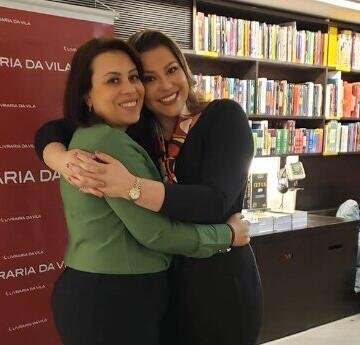
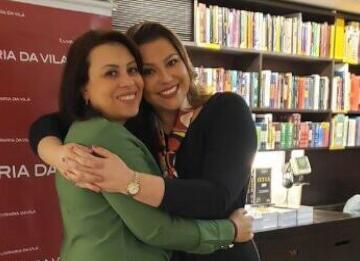
eventos

diff --git a/eventos.html b/eventos.html
@@ -285,7 +285,7 @@
             <div class="grid-item">
               <div class="single_blog">
                 <figure class="blog_item">
-                  <img src="assets/img/masonary_4.jpg" alt="" width="360" height="345"/>
+                  <img src="assets/img/masonary_4.jpg" alt="Responsabilidade Social" width="360" height="345"/>
                   <div class="blog_text">
                     <h6>Março 16, 2020</h6>
                     <h4> <a href="#"> Responsabilidade Social</a> </h4>
@@ -299,7 +299,7 @@
             <div class="grid-item">
               <div class="single_blog">
                 <figure class="blog_item">
-                  <img src="assets/img/masonary_1.jpg" alt="" width="360" height="345"/>
+                  <img src="assets/img/masonary_1.jpg" alt="Lançamento do livro" width="360" height="261"/>
                   <div class="blog_text">
                     <h6>Agosto 14, 2019</h6>
                     <h4> <a href="#!">Lançamento livro</a> </h4>
@@ -324,25 +324,67 @@
                 </figure>
               </div>
             </div>
-            <div class="grid-item grid-item--width2" style="display: none;">
+            <div class="grid-item grid-item--width2">
+              <div class="single_blog">
+                <figure class="blog_item">
+                  <img src="assets/img/palestra-media%C3%A7%C3%A3o.jpg" alt="Palestra Mediação e Arbitragem" width="360" height="345"/>
+                  <div class="blog_text">
+                    <h6>Março 30, 2010</h6>
+                    <h4> <a href="#!">Mediação e Arbitragem</a></h4>
+                    <h5> <i class="icofont icofont-ui-user"></i>Dra. Patrícia Batata</h5>
+                    <p>O caminho mais rápido, pacífico e sigiloso na solução de conflitos</p>
+                    <a href="#">Leia Mais</a>
+                  </div>
+                </figure>
+              </div>
+            </div>
+            <div class="grid-item grid-item--width2">
+              <div class="single_blog">
+                <figure class="blog_item">
+                  <img src="assets/img/masonary_5.jpg" alt=""/>
+                  <div class="blog_text">
+                    <h6>Aug 14, 2016</h6>
+                    <h4> <a href="single_blog.html">Duis autem vel eum iriure</a> </h4>
+                    <h5> <i class="icofont icofont-ui-user"></i>by Nawshin</h5>
+                    <p>Lorem ipsum dolor sit amet, consectetuer adipi scing elit, sed diam nonummy nibh euismod tincidunt ut laoreet dolore magna...</p>
+                    <a href="#">Read More</a>
+                  </div>
+                </figure>
+              </div>
+            </div>
+            <div class="grid-item">
+              <div class="single_blog">
+                <figure class="blog_item">
+                  <img src="assets/img/masonary_5.jpg" alt=""/>
+                  <div class="blog_text">
+                    <h6>Aug 14, 2016</h6>
+                    <h4> <a href="single_blog.html">Duis autem vel eum iriure</a> </h4>
+                    <h5> <i class="icofont icofont-ui-user"></i>by Nawshin</h5>
+                    <p>Lorem ipsum dolor sit amet, consectetuer adipi scing elit, sed diam nonummy nibh euismod tincidunt ut laoreet dolore magna...</p>
+                    <a href="#">Read More</a>
+                  </div>
+                </figure>
+              </div>
+            </div>
+            <div class="grid-item">
+              <div class="single_blog">
+                <figure class="blog_item">
+                  <img src="assets/img/masonary_5.jpg" alt=""/>
+                  <div class="blog_text">
+                    <h6>Aug 14, 2016</h6>
+                    <h4> <a href="single_blog.html">Duis autem vel eum iriure</a> </h4>
+                    <h5> <i class="icofont icofont-ui-user"></i>by Nawshin</h5>
+                    <p>Lorem ipsum dolor sit amet, consectetuer adipi scing elit, sed diam nonummy nibh euismod tincidunt ut laoreet dolore magna...</p>
+                    <a href="#">Read More</a>
+                  </div>
+                </figure>
+              </div>
+            </div>
+            <div class="grid-item">
               <div class="single_blog">
                 <figure class="blog_item">
                   <img src="assets/img/masonary_3.jpg" alt=""/>
                   <div class="blog_text">
-                    <h6>Ago 14, 2019</h6>
-                    <h4> <a href="#!">Palestra sobre Direito Médico</a></h4>
-                    <h5> <i class="icofont icofont-ui-user"></i>PA Consultoria</h5>
-                    <p>Lançamento livro Dra.Natalia Verdi. A sócia Patricia Batata em nome da PA Consultoria esteve presente.</p>
-                    <a href="#">Read More</a>
-                  </div>
-                </figure>
-              </div>
-            </div>
-            <div class="grid-item grid-item--width2" style="display: none;">
-              <div class="single_blog">
-                <figure class="blog_item">
-                  <img src="assets/img/masonary_5.jpg" alt=""/>
-                  <div class="blog_text">
                     <h6>Aug 14, 2016</h6>
                     <h4> <a href="single_blog.html">Duis autem vel eum iriure</a> </h4>
                     <h5> <i class="icofont icofont-ui-user"></i>by Nawshin</h5>
@@ -352,49 +394,7 @@
                 </figure>
               </div>
             </div>
-            <div class="grid-item" style="display: none;">
-              <div class="single_blog">
-                <figure class="blog_item">
-                  <img src="assets/img/masonary_5.jpg" alt=""/>
-                  <div class="blog_text">
-                    <h6>Aug 14, 2016</h6>
-                    <h4> <a href="single_blog.html">Duis autem vel eum iriure</a> </h4>
-                    <h5> <i class="icofont icofont-ui-user"></i>by Nawshin</h5>
-                    <p>Lorem ipsum dolor sit amet, consectetuer adipi scing elit, sed diam nonummy nibh euismod tincidunt ut laoreet dolore magna...</p>
-                    <a href="#">Read More</a>
-                  </div>
-                </figure>
-              </div>
-            </div>
-            <div class="grid-item" style="display: none;">
-              <div class="single_blog">
-                <figure class="blog_item">
-                  <img src="assets/img/masonary_5.jpg" alt=""/>
-                  <div class="blog_text">
-                    <h6>Aug 14, 2016</h6>
-                    <h4> <a href="single_blog.html">Duis autem vel eum iriure</a> </h4>
-                    <h5> <i class="icofont icofont-ui-user"></i>by Nawshin</h5>
-                    <p>Lorem ipsum dolor sit amet, consectetuer adipi scing elit, sed diam nonummy nibh euismod tincidunt ut laoreet dolore magna...</p>
-                    <a href="#">Read More</a>
-                  </div>
-                </figure>
-              </div>
-            </div>
-            <div class="grid-item" style="display: none;">
-              <div class="single_blog">
-                <figure class="blog_item">
-                  <img src="assets/img/masonary_3.jpg" alt=""/>
-                  <div class="blog_text">
-                    <h6>Aug 14, 2016</h6>
-                    <h4> <a href="single_blog.html">Duis autem vel eum iriure</a> </h4>
-                    <h5> <i class="icofont icofont-ui-user"></i>by Nawshin</h5>
-                    <p>Lorem ipsum dolor sit amet, consectetuer adipi scing elit, sed diam nonummy nibh euismod tincidunt ut laoreet dolore magna...</p>
-                    <a href="#">Read More</a>
-                  </div>
-                </figure>
-              </div>
-            </div>
-            <div class="grid-item" style="display: none;">
+            <div class="grid-item">
               <div class="single_blog">
                 <figure class="blog_item">
                   <img src="assets/img/masonary_8.jpg" alt=""/>

diff --git a/empresa/quem-somos.html b/empresa/quem-somos.html
@@ -306,9 +306,9 @@
             <div class="col-sm-12">
               <h4 class="det_bottom">NOSSA HISTÓRIA</h4>
               <p class="det_para">Os CEO´s da <b>PA CONSULTORIA </b>atuavam individualmente em diversos projetos e se uniram em 2015.<br/>Cada um com sua experiência e conjuntamente construíram as bases da atuação e parceira que resultou na formação do
-nosso escritório.<br/>Nestes anos em que realizaram trabalhos construíram uma sólida relação profissional que formou a missão da <b>PA CONSULTORIA</b> de tratar cada cliente de forma especial, utilizando as melhores técnicas de direito
-como instrumento para satisfação.<br/>E para tanto conta com os parceiros e especialistas que formam nossa equipe.<br/>A <b>PA CONSUTORIA</b> então é formada com a missão de fazer o melhor para quem procura solução dos seus
-problemas.<br/>Nossa visão maior é o entendimento do que cada um precisa e isso nos faz crescer.<br/>O maior valor é o humanismo.</p>
+              nosso escritório.<br/>Nestes anos em que realizaram trabalhos construíram uma sólida relação profissional que formou a missão da <b>PA CONSULTORIA</b> de tratar cada cliente de forma especial, utilizando as melhores técnicas de direito
+              como instrumento para satisfação.<br/>E para tanto conta com os parceiros e especialistas que formam nossa equipe.<br/>A <b>PA CONSUTORIA</b> então é formada com a missão de fazer o melhor para quem procura solução dos seus
+              problemas.<br/>Nossa visão maior é o entendimento do que cada um precisa e isso nos faz crescer.<br/>O maior valor é o humanismo.</p>
             </div>
           </div>
           <div class="row">
@@ -352,10 +352,7 @@ problemas.<br/>Nossa visão maior é o entendimento do que cada um precisa e iss
               <div class="sling_ab_service">
                 <h4>PATRÍCIA<span>&nbsp;BATATA</span></h4>
                 <h5>OAB: 202.365</h5>
-                <p class="text-justify">Advogada, militante generalista desde 2001 de forma autônoma, com Pós-Graduação em Direito do Trabalho pela Mascaro e Nascimento na Faculdade Tancredo Neves de 2003. Formada em Mediação e Arbitragem pela Escola
-                Superior
-                de
-                Advocacia em 2007, Conselheira do CONIMA (Conselho Nacional das Instituições de Mediação e Arbitragem) entre 2008-2012. Árbitra e Mediadora das Câmaras Arbitrais IMAESP E CALA.</p>
+                <p class="text-justify">Advogada, militante generalista desde 2001 de forma autônoma, com Pós-Graduação em Direito do Trabalho pela Mascaro e Nascimento na Faculdade Tancredo Neves de 2003.<br/>Formada em Mediação e Arbitragem pela Escola Superior de Advocacia em 2007, Conselheira do CONIMA (Conselho Nacional das Instituições de Mediação e Arbitragem) entre 2008-2012.<br/>Árbitra e Mediadora das Câmaras Arbitrais IMAESP E CALA.</p>
               </div>
             </div>
           </div>
@@ -372,10 +369,10 @@ problemas.<br/>Nossa visão maior é o entendimento do que cada um precisa e iss
                 <h4>ALESSANDRO<span>
                   TESCI</span></h4>
                 <h5>OAB: 152.717</h5>
-                <p class="text-justify">Advogado, militante autônomo desde 1997, com especialização em Direito Imobiliário pela FMU desde 1998, assessora diversas imobiliárias em São Paulo. Especializado em Direito do Consumidor pela Faculdade de
-                Direito de
-                São
-                Caetano do Sul, presta atendimento nas áreas cível, família e trabalhista.</p>
+                <p class="text-justify">Advogado, militante autônomo desde 1997, com especialização em Direito Imobiliário pela FMU desde 1998, assessora diversas imobiliárias em São Paulo.<br/>Especializado em Direito do Consumidor pela Faculdade de
+Direito de
+São
+Caetano do Sul, presta atendimento nas áreas cível, família e trabalhista.</p>
               </div>
             </div>
           </div>

diff --git a/boletins/bol-master.html b/boletins/bol-master.html
@@ -178,7 +178,7 @@
                         </li>
                       </ul>
                     </li>
-                    <li data-pgc-field="boletins">
+                    <li data-pgc-field="boletins" class="active">
                       <a href="../boletins.html">boletins</a>
                     </li>
                     <li data-pgc-field="eventos">
@@ -292,13 +292,14 @@
                 <h2>IMPORTÂNCIA DE CONHECER SEUS DIREITOS E DEVERES COMO CONSUMIDOR</h2>
               </div>
               <div class="boletim_content_detail">
-                <p>Na intenção de orientar nossos clientes diante das constantes mudanças advindas do
-atual panorama econômico mundial, tecemos abaixo alguns comentários que tendem a
-esclarecer dúvidas em algumas atividades contratuais cotidianas e seus reflexos
-jurídicos no dia a dia. (tais como contratos escolares, contratos com academias,
-contratos de prestação de serviços e de trabalho, entre outros).<br><br>O breve texto abaixo visa auxiliar juridicamente àqueles diretamente envolvidos nos
-casos que se destacam no qual nos dispomos a orientar seu encaminhamento e solução.<br><br>Lembramos que este panorama (data da emissão do presente) se faz hoje, nada
-impedindo sua mudança a qualquer momento.</p>
+                <p>Nosso escritório tem grandes profissionais em cada ramo do Direito para atender com excelência a todos que nos procuram.</p>
+                <p>Hoje nosso&nbsp;boletim&nbsp;dá destaque ao Direito de Família.</p>
+                <p>A <b>Dra.&nbsp;Bianca de Sá Duarte Nogueira</b>, uma de nossas parceiras que é especialista na área do Direito Família traz uma grande contribuição para conhecimento de todos.</p>
+                <p>Nossos clientes cada vez mais nos procuram na
+busca de
+soluções de seus conflitos na área do Direito Família e hoje segue uma das dúvidas mais frequentes.</p>
+                <p>Nosso escritório está capacitado para resolver este e outras questões!</p>
+                <p>Qualquer dúvida entre em contato conosco!</p>
               </div>
               <div class="boletim_content_detail_1">
                 <h5>1 - DAS RELAÇÕES CONTRATUAIS E DE SERVIÇO</h5>

diff --git a/index_2.html b/index_2.html
@@ -79,10 +79,8 @@
     <link rel="apple-touch-icon" sizes="152x152" href="assets/img/apple-touch-icon-152x152.png"/>
     <link rel="apple-touch-icon" sizes="180x180" href="assets/img/apple-touch-icon-180x180.png"/>
     <!-- HTML5 shim and Respond.js for IE8 support of HTML5 elements and media queries -->
-    <!--[if lt IE 9]>
-  <script src="https://oss.maxcdn.com/libs/html5shiv/3.7.0/html5shiv.js"></script>
-  <script src="https://oss.maxcdn.com/libs/respond.js/1.4.2/respond.min.js"></script>
-  <![endif]-->
+    <!-- WARNING: Respond.js doesn't work if you view the page via file:// -->
+    <!--[if lt IE 9]> <script src="js/html5shiv.min.js"></script> <script src="js/respond.min.js"></script> <![endif]-->
   </head>
   <body id="body" class="home_2">
     <!-- Google Tag Manager (noscript) -->
@@ -330,8 +328,8 @@
                     <i class="icofont icofont-location-pin"></i>
                   </div>
                   <div class="info_text">
-                    <p>r. santa cruz, 2105</p>
-                    <p>sl 1117, Vl Mariana, SP</p>
+                    <p>R. Santa Cruz, 2105 - 11º</p>
+                    <p>Sl 1117 - Vl Mariana/SP</p>
                   </div>
                 </li>
                 <li class="info">

diff --git a/index-2.html b/index-2.html
@@ -295,8 +295,8 @@
                     <i class="icofont icofont-location-pin"></i>
                   </div>
                   <div class="info_text">
-                    <p>R. Santa Cruz, 2105, 11º,</p>
-                    <p>Sl 1117, Vl Mariana/SP</p>
+                    <p>R. Santa Cruz, 2105 - 11º</p>
+                    <p>Sl 1117 - Vl Mariana/SP</p>
                   </div>
                 </li>
                 <li class="info">

diff --git a/index.html b/index.html
@@ -298,8 +298,8 @@
                     <i class="icofont icofont-location-pin"></i>
                   </div>
                   <div class="info_text">
-                    <p>R. Santa Cruz, 2105, 11º,</p>
-                    <p>Sl 1117, Vl Mariana/SP</p>
+                    <p>R. Santa Cruz, 2105 - 11º</p>
+                    <p>Sl 1117 - Vl Mariana/SP</p>
                   </div>
                 </li>
                 <li class="info">

diff --git a/style.css b/style.css
@@ -120,7 +120,8 @@ ul.project_nav > li {
 ul {
   list-style: none;
   padding: 0;
-  margin: 0; }
+  margin: 0;
+  list-style-type: none; }
 
 textarea {
   border-style: none;

diff --git a/style.scss b/style.scss
@@ -149,6 +149,7 @@ ul {
     list-style: none;
     padding: 0;
     margin: 0;
+    list-style-type: none;
 }
 
 textarea {
